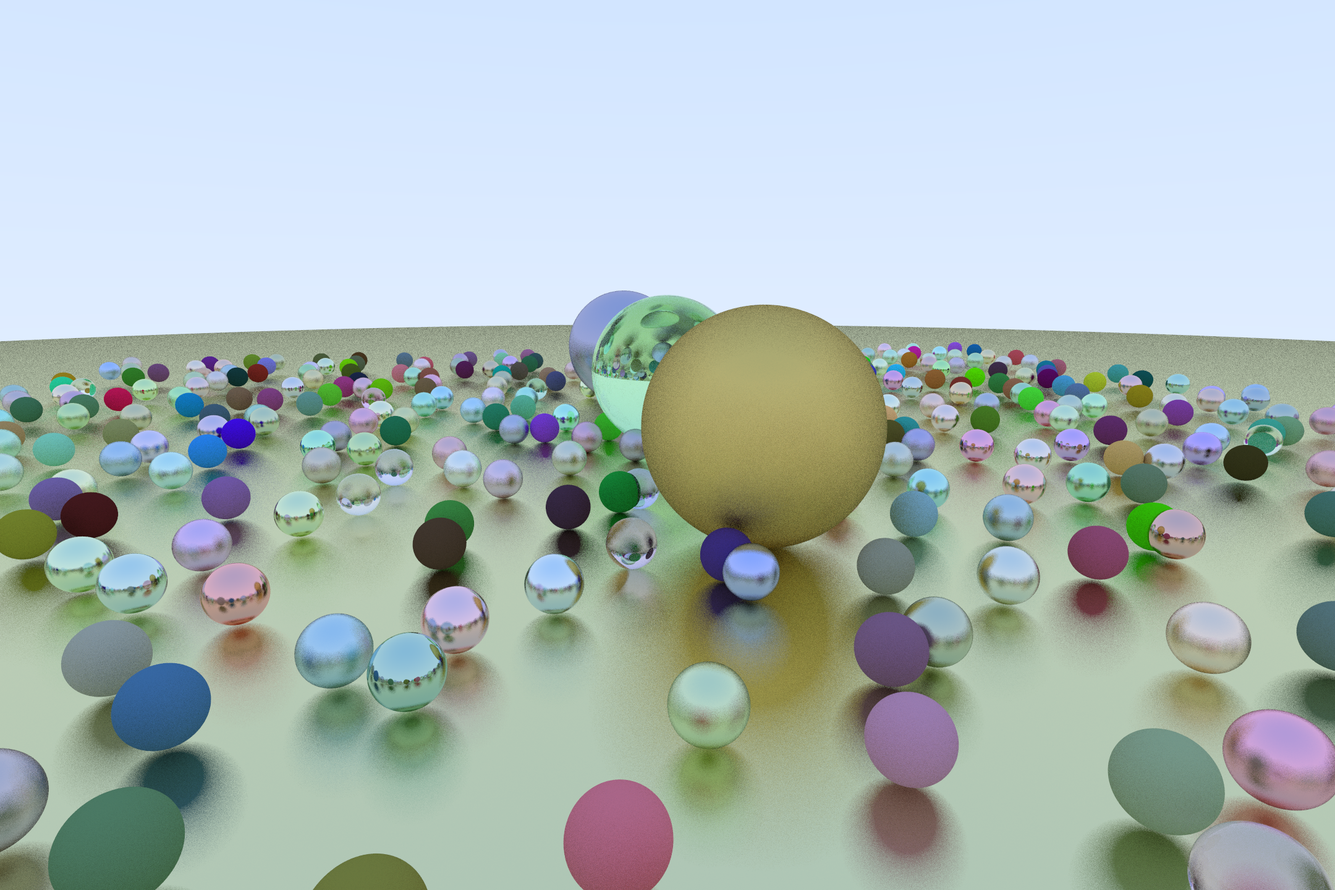
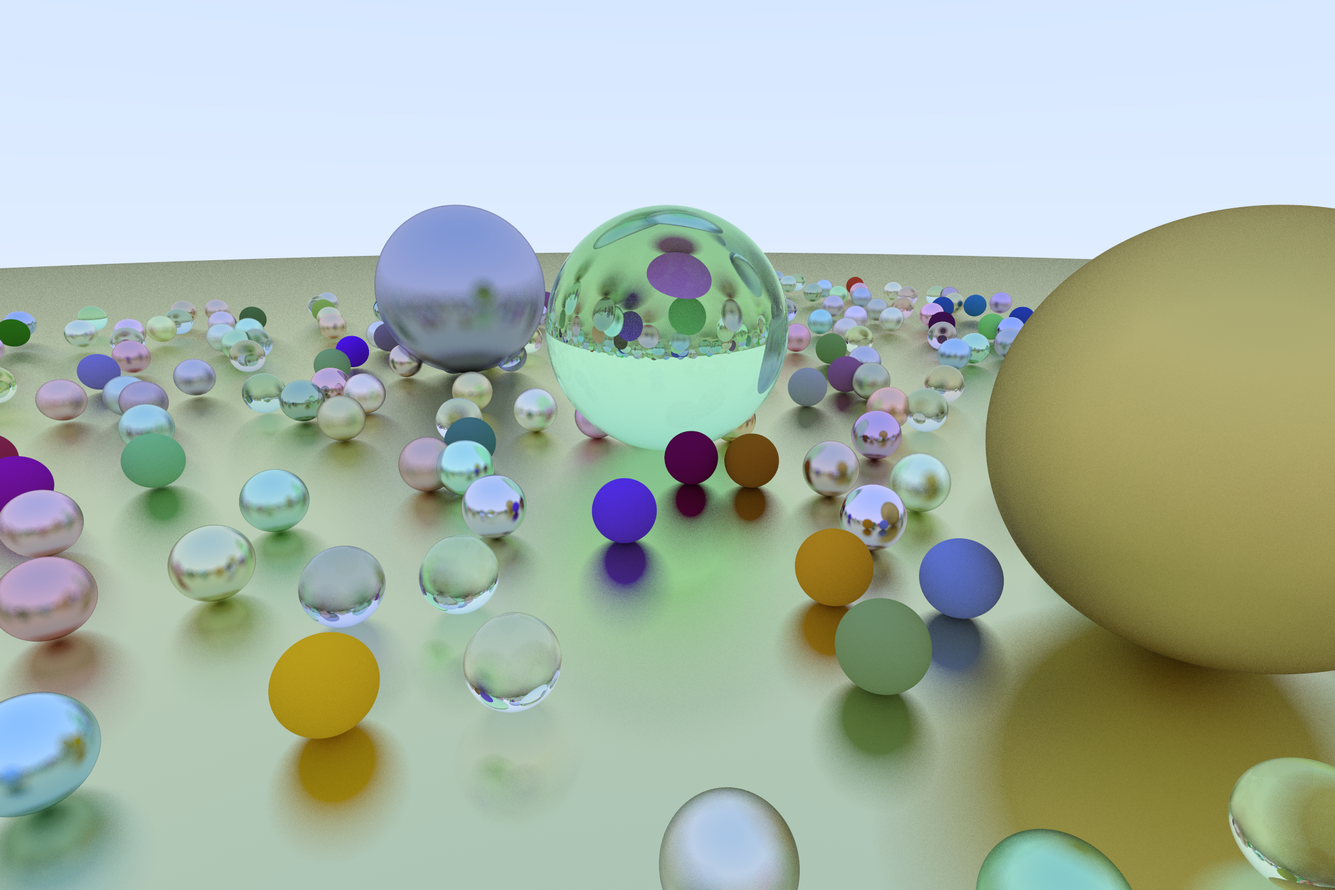
updated some parameters and the image

diff --git a/src/main.rs b/src/main.rs
@@ -6,12 +6,12 @@ use primitives::{color::Color, vector::{Vector, Vec3}, ray::Ray};
 use objects::{image::Image, camera::Camera};
 use image::{RgbImage, Rgb, ImageBuffer};
 use rayon::prelude::*;
-use shapes::{hittable::{Hittable, HitRecord}, sphere::Sphere, material::{Material, self}};
+use shapes::{hittable::{Hittable, HitRecord}, sphere::Sphere, material::{Material}};
 use std::{f64::{consts::PI, INFINITY}, sync::{Mutex}, time::{Instant}};
 use rand::prelude::*;
 
-const SAMPLES_PER_PIXEL: i32 = 30;
-const MAX_DEPTH: i32 = 50;
+const SAMPLES_PER_PIXEL: i32 = 100;
+const MAX_DEPTH: i32 = 100;
 
 fn main() {
 
@@ -19,17 +19,17 @@ fn main() {
     let camera = Camera::from_image(
         &image, 
         60.0, 
-        Vector::new(10.0, 2.2, 2.0), 
+        Vector::new(5.0, 2.0, 4.0), 
         Vector::new(0.0, 0.0, 0.0), 
         Vector::new(0.0, 1.0, 0.0)
     );
     // let mut world: Vec<Box<dyn Hittable + Send + Sync>> = Vec::new();
 
-    let ground = Material::new_metal(Color::new(0.8, 0.8, 0.5), 0.2);
-    let center_sphere = Material::new_dielectric(Color::new(0.8, 1.0, 0.8), 1.5);
-    let material_left = Material::new_metal(Color::new(0.5, 0.5, 0.7), 0.2);
-    let material_right = Material::new_metal(Color::new(0.8, 0.6, 0.2), 0.8);
-    let material_back = Material::new_metal(Color::new(0.8, 0.3, 0.3), 0.0);
+    // let ground = Material::new_metal(Color::new(0.8, 0.8, 0.5), 0.2);
+    // let center_sphere = Material::new_dielectric(Color::new(0.8, 1.0, 0.8), 1.5);
+    // let material_left = Material::new_metal(Color::new(0.5, 0.5, 0.7), 0.2);
+    // let material_right = Material::new_metal(Color::new(0.8, 0.6, 0.2), 0.8);
+    // let material_back = Material::new_metal(Color::new(0.8, 0.3, 0.3), 0.0);
 
     // world.push(Box::new(Sphere::new(Vector::new(0.0, -100.5, -2.0), 100.0, ground)));
     // world.push(Box::new(Sphere::new(Vector::new(0.0, 0.0, -2.0), 0.2, center_sphere)));
@@ -77,11 +77,11 @@ fn random_world() -> Vec<Box<dyn Hittable + Send + Sync>> {
             let center = Vector::new(i as f64 + 0.9 * rng.gen::<f64>(), 0.2, j as f64 + 0.9 * rng.gen::<f64>());
             if (center - Vector::new(4.0, 0.2, 0.0)).length() > 0.9 {
                 let material = match mat_rng {
-                    r if r < 0.4 => {
+                    r if r < 0.2 => {
                         let albedo = Color::random() * Color::random();
                         Material::new_lambertian(albedo)
                     }
-                    r if r < 0.95 => {
+                    r if r < 0.8 => {
                         let albedo = Color::random_range(0.5,1.0);
                         let fuzz = rng.gen_range(0.0..0.5);
                         Material::new_metal(albedo, fuzz)
